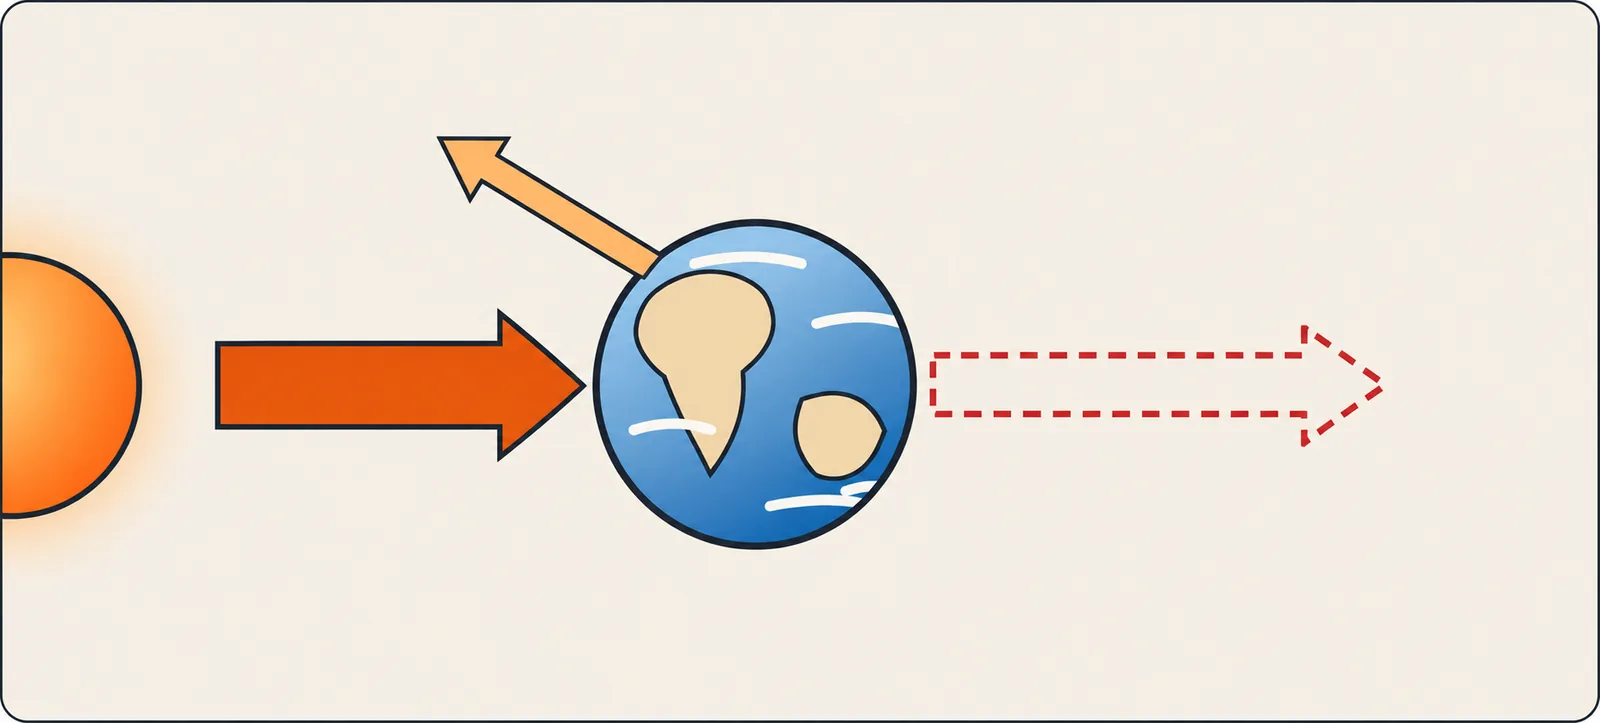
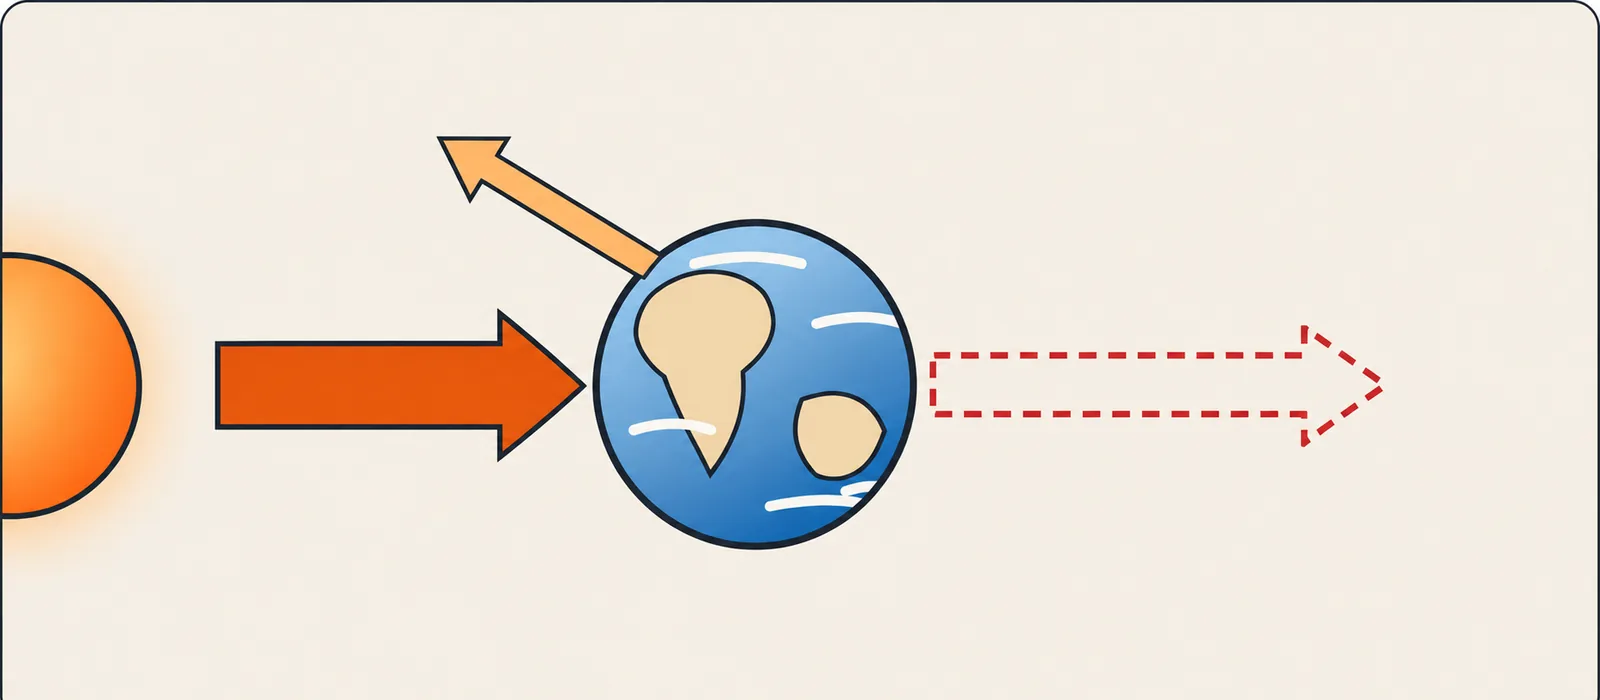
Työjono 24 osa 3: water-column ja earth-flows rajattu viewBoxiin (tyhjä paperireuna pois)
Piirros ennallaan; kuvatiedosto rajattu ja rivin laatikko sovitettu viewBoxiin. Uusi approve-figures näille kahdelle odottaa.

Claude-Session: https://claude.ai/code/session_018S3zFww5udbJ3ygchB38Xj

diff --git a/fysiikkalabra/content/en/FY3/fy3-4/lesson.md b/fysiikkalabra/content/en/FY3/fy3-4/lesson.md
@@ -31,7 +31,7 @@ $p = \dfrac{F}{A}$, so $p = \dfrac{60\,\text{N}}{2.0 \cdot 10^{-4}\,\text{m}^2}$
 According to the micro model, the pressure of a gas comes from particles colliding with the walls of the container. The pressure of a liquid comes from the weight of the liquid itself: above every layer of water there is more water pressing down on it. The deeper you go, the more water there is above you and the greater the pressure. In a liquid at rest, a horizontal surface of area $A$ below the surface carries the weight of the column of water above it. The height of the column is the depth $h$ and its volume is $V = Ah$. Density $\rho$ is mass per volume ($m = \rho V$), so the mass of the column is $\rho A h$ and its weight is $G = mg = \rho A h g$. Pressure is weight divided by area, so the area cancels and what is left is $\rho g h$. The pressure produced by the weight of a liquid is called hydrostatic pressure. It does not depend on the shape of the container or on the total amount of water, only on the depth and the density of the liquid.
 
 <svg data-fig="water-column" viewBox="0 0 600 300" role="img" aria-label="A column of water whose base has area A and whose height is the depth h. The weight of the column, G = ρAhg, presses the base downwards, and the pressure is the weight divided by the area, p = G/A = ρgh: the area cancels. Schematic diagram, not to scale." style="max-width:100%;font-size:24px">
-  <image href="pics/fy3/fy3-4-water-column.webp" x="2.6" y="2.6" width="615.4" height="316.7" preserveAspectRatio="none"/>
+  <image href="pics/fy3/fy3-4-water-column.webp" x="2.6" y="2.6" width="597.4" height="297.4" preserveAspectRatio="none"/>
   <foreignObject x="44" y="19.5" width="158" height="29" overflow="visible"><div xmlns="http://www.w3.org/1999/xhtml" class="fig-tex" style="display:flex;align-items:center;justify-content:flex-start;height:100%;font-size:24px">$\text{water surface}$</div></foreignObject>
   <foreignObject x="136" y="117" width="24" height="36" overflow="visible"><div xmlns="http://www.w3.org/1999/xhtml" class="fig-tex" style="display:flex;align-items:center;justify-content:flex-end;height:100%;font-size:30px;color:#c92a2a">$G$</div></foreignObject>
   <foreignObject x="198" y="234" width="24" height="36" overflow="visible"><div xmlns="http://www.w3.org/1999/xhtml" class="fig-tex" style="display:flex;align-items:center;justify-content:center;height:100%;font-size:30px">$A$</div></foreignObject>

diff --git a/fysiikkalabra/content/fi/FY3/fy3-4/lesson.md b/fysiikkalabra/content/fi/FY3/fy3-4/lesson.md
@@ -31,7 +31,7 @@ $p = \dfrac{F}{A}$, joten $p = \dfrac{60\,\text{N}}{2{,}0 \cdot 10^{-4}\,\text{m
 Kaasun paine syntyy mikromallin mukaan hiukkasten törmäyksistä astian seinämään. Nesteen paine syntyy nesteen omasta painosta: jokaisen vesikerroksen yllä on vettä, joka painaa sitä. Mitä syvemmällä ollaan, sitä enemmän vettä on yläpuolella ja sitä suurempi paine on. Levossa olevassa nesteessä pinnan alla olevaan vaakasuoraan pintaan, jonka pinta-ala on $A$, kohdistuu sen yläpuolisen vesipatsaan paino. Patsaan korkeus on syvyys $h$ ja tilavuus $V = Ah$. Tiheys $\rho$ on massa tilavuutta kohti ($m = \rho V$), joten patsaan massa on $\rho A h$ ja paino $G = mg = \rho A h g$. Paine on paino jaettuna alalla, joten pinta-ala supistuu pois ja jäljelle jää $\rho g h$. Tätä nesteen painosta syntyvää painetta sanotaan hydrostaattiseksi paineeksi. Se ei riipu astian muodosta eikä veden kokonaismäärästä, vaan ainoastaan syvyydestä ja nesteen tiheydestä.
 
 <svg data-fig="water-column" viewBox="0 0 600 300" role="img" aria-label="Vesipatsas, jonka pohjan pinta-ala on A ja korkeus syvyys h. Patsaan paino G = ρAhg painaa pohjaa alaspäin, ja paine on paino jaettuna alalla, p = G/A = ρgh: pinta-ala supistuu pois. Kaaviokuva, ei mittakaavassa." style="max-width:100%;font-size:24px">
-  <image href="pics/fy3/fy3-4-water-column.webp" x="2.6" y="2.6" width="615.4" height="316.7" preserveAspectRatio="none"/>
+  <image href="pics/fy3/fy3-4-water-column.webp" x="2.6" y="2.6" width="597.4" height="297.4" preserveAspectRatio="none"/>
   <foreignObject x="44" y="19.5" width="120" height="29" overflow="visible"><div xmlns="http://www.w3.org/1999/xhtml" class="fig-tex" style="display:flex;align-items:center;justify-content:flex-start;height:100%;font-size:24px">$\text{vesipinta}$</div></foreignObject>
   <foreignObject x="136" y="117" width="24" height="36" overflow="visible"><div xmlns="http://www.w3.org/1999/xhtml" class="fig-tex" style="display:flex;align-items:center;justify-content:flex-end;height:100%;font-size:30px;color:#c92a2a">$G$</div></foreignObject>
   <foreignObject x="198" y="234" width="24" height="36" overflow="visible"><div xmlns="http://www.w3.org/1999/xhtml" class="fig-tex" style="display:flex;align-items:center;justify-content:center;height:100%;font-size:30px">$A$</div></foreignObject>

diff --git a/fysiikkalabra/content/fi-easy/FY3/fy3-4/lesson.md b/fysiikkalabra/content/fi-easy/FY3/fy3-4/lesson.md
@@ -33,7 +33,7 @@ Kaasun paine syntyy mikromallin mukaan hiukkasten törmäyksistä astian seinäm
 Tarkastellaan nestettä, joka on levossa. Pinnan alla on vaakasuora pinta, jonka pinta-ala on $A$. Siihen kohdistuu sen yläpuolella olevan vesipatsaan paino. Patsaan korkeus on syvyys $h$ ja tilavuus on $V = Ah$. Tiheys $\rho$ on massa tilavuutta kohti ($m = \rho V$). Siksi patsaan massa on $\rho A h$ ja paino on $G = mg = \rho A h g$. Paine on paino jaettuna alalla. Pinta-ala supistuu pois eli häviää jakolaskussa, ja jäljelle jää $\rho g h$. Nesteen painosta syntyvää painetta sanotaan hydrostaattiseksi paineeksi. Se ei riipu astian muodosta eikä veden kokonaismäärästä. Se riippuu vain syvyydestä ja nesteen tiheydestä.
 
 <svg data-fig="water-column" viewBox="0 0 600 300" role="img" aria-label="Vesipatsas, jonka pohjan pinta-ala on A ja korkeus on syvyys h. Patsaan paino G = ρAhg painaa pohjaa alaspäin. Paine on paino jaettuna alalla, p = G/A = ρgh. Pinta-ala supistuu pois. Kaaviokuva, ei mittakaavassa." style="max-width:100%;font-size:24px">
-  <image href="pics/fy3/fy3-4-water-column.webp" x="2.6" y="2.6" width="615.4" height="316.7" preserveAspectRatio="none"/>
+  <image href="pics/fy3/fy3-4-water-column.webp" x="2.6" y="2.6" width="597.4" height="297.4" preserveAspectRatio="none"/>
   <foreignObject x="44" y="19.5" width="120" height="29" overflow="visible"><div xmlns="http://www.w3.org/1999/xhtml" class="fig-tex" style="display:flex;align-items:center;justify-content:flex-start;height:100%;font-size:24px">$\text{vesipinta}$</div></foreignObject>
   <foreignObject x="136" y="117" width="24" height="36" overflow="visible"><div xmlns="http://www.w3.org/1999/xhtml" class="fig-tex" style="display:flex;align-items:center;justify-content:flex-end;height:100%;font-size:30px;color:#c92a2a">$G$</div></foreignObject>
   <foreignObject x="198" y="234" width="24" height="36" overflow="visible"><div xmlns="http://www.w3.org/1999/xhtml" class="fig-tex" style="display:flex;align-items:center;justify-content:center;height:100%;font-size:30px">$A$</div></foreignObject>
